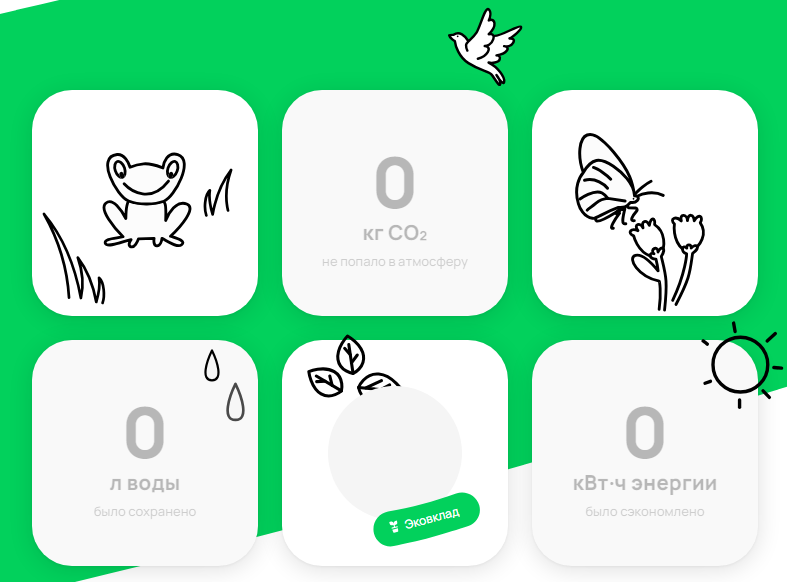
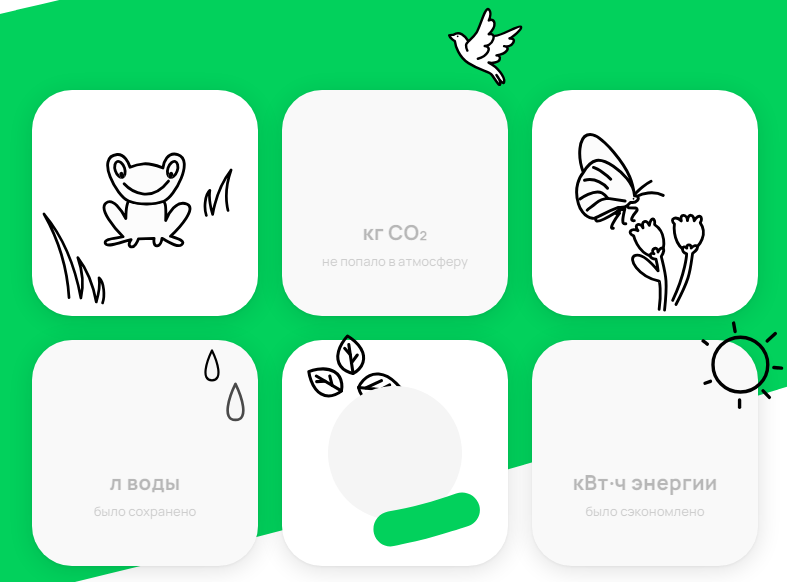
Изменение в task2

diff --git a/task2/tests-avito/test2-clear-app.spec.ts b/task2/tests-avito/test2-clear-app.spec.ts
@@ -7,13 +7,14 @@ import { PNG } from 'pngjs';
 const elementClass = '.desktop-impact-items-F7T6E';
 const outputDir = 'output';
 const bugsDir = 'bugs';
-const screenshotName = 'screenshot_avito_clear';
-const elementsToHideClass = ['.desktop-value-Nd1tR', '.desktop-avatar-cJSQ4'];
+const screenshotNameClear = 'screenshot_avito_clear';
+const elementsToHideClass = ['.desktop-value-Nd1tR', '.desktop-avatar-cJSQ4','.desktop-plyambaText-kXbhS'];
 
 test('Сравнение скриншота элемента на Avito', async ({ page }) => {
   await page.goto('https://www.avito.ru/avito-care/eco-impact');
 
-
+  // Создаём папки, если их нет
+  await fs.promises.mkdir(outputDir, { recursive: true });
   // Делаем скриншот элемента
   await Promise.all(elementsToHideClass.map(async classToHide => {
     await page.$$eval(classToHide, elements => {
@@ -21,7 +22,25 @@ test('Сравнение скриншота элемента на Avito', async 
     });
   }));
   const screenshot = await page.locator(elementClass).screenshot();
-  const referencePath = path.join(outputDir, `${screenshotName}.png`);
+  const referencePath = path.join(outputDir, `${screenshotNameClear}.png`);
+ // Проверяем наличие эталонного скриншота
+ const referenceExists = await fs.promises.access(referencePath, fs.constants.F_OK)
+ .then(() => true)
+ .catch(() => false);
+
+if (!referenceExists) {
+ // Создаём эталонный скриншот
+ console.log('Эталонный скриншот не найден, создаём новый...');
+ // Делаем эталонный скриншот элемента
+ await Promise.all(elementsToHideClass.map(async classToHide => {
+  await page.$$eval(classToHide, elements => {
+    elements.forEach(element => element.style.display = 'none');
+  });
+}));
+  const screenshotNew = await page.locator(elementClass).screenshot();
+   const screenshotPath = path.join(outputDir, `${screenshotNameClear}.png`);
+   await fs.promises.writeFile(screenshotPath, screenshotNew);
+ }
 
   // Загружаем эталонный скриншот
   const referenceImg = PNG.sync.read(await fs.promises.readFile(referencePath));
@@ -55,9 +74,10 @@ test('Сравнение скриншота элемента на Avito', async 
         }
       }
     }
-
+    // Создаём папки, если их нет
+    await fs.promises.mkdir(bugsDir, { recursive: true });
      // Сохраняем изменённый скриншот
-     const diffPath = path.join(bugsDir, `${screenshotName}-test2-diff.png`);
+     const diffPath = path.join(bugsDir, `${screenshotNameClear}-test2-diff.png`);
      await fs.promises.writeFile(diffPath, PNG.sync.write(diff));
 
      // Провалить тест 

diff --git a/task2/tests-avito/test1-app.spec.ts b/task2/tests-avito/test1-app.spec.ts
@@ -7,21 +7,34 @@ import { PNG } from 'pngjs';
 const elementClass = '.desktop-impact-items-F7T6E';
 const outputDir = 'output';
 const bugsDir = 'bugs';
-const screenshotName = 'screenshot_avito_clear';
+const screenshotName = 'screenshot_avito';
 
 
 test('Сравнение скриншота элемента на Avito', async ({ page }) => {
   await page.goto('https://www.avito.ru/avito-care/eco-impact');
 
-
+  // Создаём папки, если их нет
+  await fs.promises.mkdir(outputDir, { recursive: true });
   // Делаем скриншот элемента
   const screenshot = await page.locator(elementClass).screenshot();
   const referencePath = path.join(outputDir, `${screenshotName}.png`);
+  // Проверяем наличие эталонного скриншота
+  const referenceExists = await fs.promises.access(referencePath, fs.constants.F_OK)
+    .then(() => true)
+    .catch(() => false);
 
+  if (!referenceExists) {
+    // Создаём эталонный скриншот
+    console.log('Эталонный скриншот не найден, создаём новый...');
+    // Делаем эталонный скриншот элемента
+     const screenshotNew = await page.locator(elementClass).screenshot();
+      const screenshotPath = path.join(outputDir, `${screenshotName}.png`);
+      await fs.promises.writeFile(screenshotPath, screenshotNew);
+    }
   // Загружаем эталонный скриншот
   const referenceImg = PNG.sync.read(await fs.promises.readFile(referencePath));
   const screenshotImg = PNG.sync.read(screenshot);
-
+  
   // Сравниваем скриншоты
   const { width, height } = referenceImg;
   const diff = new PNG({ width, height });
@@ -50,6 +63,9 @@ test('Сравнение скриншота элемента на Avito', async 
         }
       }
     }
+    
+    // Создаём папки, если их нет
+    await fs.promises.mkdir(bugsDir, { recursive: true });
 
      // Сохраняем изменённый скриншот
      const diffPath = path.join(bugsDir, `${screenshotName}-test1-diff.png`);

diff --git a/task2/playwright.config.ts b/task2/playwright.config.ts
@@ -11,7 +11,7 @@ import { defineConfig, devices } from '@playwright/test';
  
   
 export default defineConfig({
-  testDir: './',
+  testDir: './tests-avito',
   /* Run tests in files in parallel */
   fullyParallel: true,
   /* Fail the build on CI if you accidentally left test.only in the source code. */

diff --git a/README.md b/README.md
@@ -38,7 +38,7 @@
     * Перейдите в директорию проекта `cd task2`.
     * Выполните команду `npm install` (или `yarn install`) для установки зависимостей, указанных в `package.json`.
 3. Запуск теста:
-    * Важно: при запуске теста с помощью `npx playwright test` будут создаваться эталонные скриншоты.
+    * Выполните команду `npx playwright test` эталонные скриншоты будут создаваться, автоматический, если их нет.
     * Эталонные скриншот находятся в папке `output` с именем, указанным в коде (`screenshot_avito.png` и `screenshot_avito_clear.png`).
 
 4. Запуск тест-кейсов по отдельности после создание скриншотов:
@@ -46,5 +46,3 @@
     * Выполните команду для запуска первого тест кейса `npx playwright test test2-clear-app.spec.ts`.
     * Если есть различия, тест провалится, и вы найдете скриншот с подсвеченными различиями в папке `bugs`.
 
-#### Дополнительные замечания:
-* Вы можете настроить параметры запуска тестов в файле конфигурации Playwright (`playwright.config.ts`).
